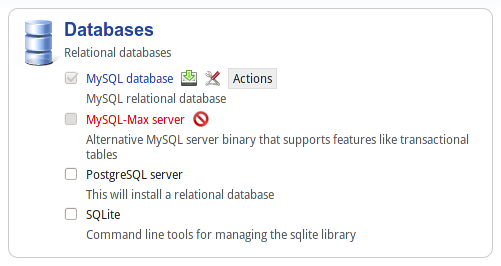
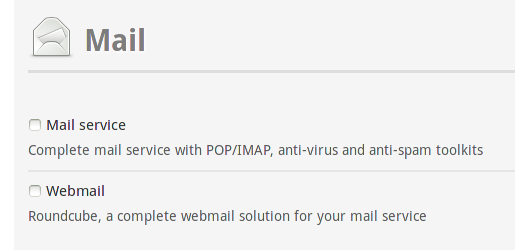
Update documentation

Changed region(s): [[0.0299, 0.42, 1.0, 0.924], [0.0599, 0.252, 1.0, 0.392], [0.0299, 0.056, 0.3593, 0.252]]

diff --git a/doc/source/layouts.rst b/doc/source/layouts.rst
@@ -1,16 +1,16 @@
 MSS layouts
-=================================
+===========
 
 To organize the modules in the web interface MSS uses a layout system to display
 the modules to the users.
 
-A layout is composed of one or more sections which contains one or more bundle. All
-sections are displayed on the front page. A bundle contains one or more modules.
+A layout is composed of one or more sections which contains one or more bundle. 
+A bundle contains one or more modules.
 
 The layouts are python modules located in the :py:mod:`mss.www.layout` module.
 
 Layout example
----------------
+--------------
 
 Directory structure :
 
@@ -25,6 +25,10 @@ Directory structure :
 As the layout is a python module we need an ``__init__.py`` file. The configuration
 of the layout is done in the ``config.py`` file.
 
+The "Core Services" and "Other Services" sections are defined in the base
+layout (``layout/base/config.py``). The markertplace section is defined in the
+commercial layout (``layout/commercial/config.py``).
+
 Section
 ^^^^^^^
 
@@ -32,9 +36,6 @@ A section is defined by :
 
 * a unique id
 * a name
-* an icon
-* a description text
-* some presentation related stuff
 
 In the ``config.py`` file import the :py:class:`mss.www.config.Config` class to
 reference the section
@@ -46,24 +47,16 @@ reference the section
 
     config = ConfigManager()
 
-    # example of section defenition
-    my_section = {
+    # add the section to the layout config
+    config.add_section({
         'id' : 'my_section',
         'name' : _('My section'),
-        'icon' : 'my_section_icon.png',
-        'desc' : _('This is a new section !'),
-        'conf' : { 'class': 'block-1' },
-    }
-
-    # add the section to the layout config
-    config.add_section(my_section)
+    })
 
 The name and the description can be translated. We use the ``_`` shortcut for
 gettext translations.
 
-This will output something like this on the front page :
-
-.. image:: media/section_example.png
+All sections are listed at the left of the screen.
 
 Bundles
 ^^^^^^^
@@ -72,33 +65,24 @@ A bundle is defined by :
 
 * a unique id
 * a name
-* an icon
-* a description text
-* some presentation related stuff
+* an icon (optionnal)
 * a list of modules
 
 ::
 
-    my_bundle =
-        {
-            'id': 'mybundle',
-            'name': _('My Bundle'),
-            'icon': 'bundle_1.png',
-            'desc': _('Foo'),
-            'conf': {'class': 'block-1'},
-            'modules': ["module1", "module2", "module3"],
-        }
-
-    config.add_bundle("my_section", my_bundle)
+    config.add_bundle("core", {
+        'id': 'mail',
+        'name': _('Mail'),
+        'icon': 'base/mail.png',
+        'modules': ["mail", "webmail"]
+    })
 
 
 This will output something like this in the section page :
 
 .. image:: media/bundle_example.png
 
-In this example, the bundle is composed of 4 modules related to databases.
-The first module is already installed on the system and was configured by MSS.
-The second module conflicts with some module installed.
+In this example, the bundle is composed of 2 modules.
 
 Modules
 ^^^^^^^
@@ -113,71 +97,3 @@ A module is defined by :
 
 
 This method allows you to add a specific module in any bundle of any section.
-
-
-Presentation
-------------
-
-On the front page and the section pages the sections and bundles can be organized
-in a one or two column way.
-
-To display a block (section or bundle) in one column use the ``block-1`` class :
-
-::
-
-    'conf' : { 'class': 'block-1' },
-
-To have two columns, blocks must use the ``block-2`` class :
-
-::
-
-    'conf' : { 'class': 'block-2' },
-
-When using a 2 column layout the first block of each "row" must use the ``block-clear`` class :
-
-::
-
-        {
-            'id': '0',
-            'name': _('Bundle 0'),
-            'icon': 'bundle_0.png',
-            'desc': _('Foo'),
-            'conf': {'class': 'block-1'},
-            'modules': ["module1", "module2", "module3"],
-        },
-        {
-            'id': '1',
-            'name': _('Bundle 1'),
-            'icon': 'bundle_1.png',
-            'desc': _('Foo'),
-            'conf': {'class': 'block-clear block-2'},
-            'modules': ["module4"],
-        },
-        {
-            'id': '2',
-            'name': _('Bundle 2'),
-            'icon': 'bundle_2.png',
-            'desc': _('Foo'),
-            'conf': {'class': 'block-2'},
-            'modules': ["module5", "module6"],
-        },
-                {
-            'id': '3',
-            'name': _('Bundle 3'),
-            'icon': 'bundle_3.png',
-            'desc': _('Foo'),
-            'conf': {'class': 'block-clear block-2'},
-            'modules': ["module7", "module8", "module9"],
-        },
-        {
-            'id': '4',
-            'name': _('Bundle 4'),
-            'icon': 'bundle_4.png',
-            'desc': _('Foo'),
-            'conf': {'class': 'block-clear block-2'},
-            'modules': ["module10", "module11"],
-        },
-
-This configuration will render something like that :
-
-.. image:: media/layout_sketch.png

diff --git a/doc/source/module_description.rst b/doc/source/module_description.rst
@@ -31,6 +31,19 @@ same name as the module name
     <name>My module</name>
     <desc>A great module</desc>
 
+Actions
+^^^^^^^
+
+Action menu to display when the module has been configured. Currently only
+html links are supported.
+
+::
+
+ <actions>
+     <action type="link" name="Management interface" value="http://@HOSTNAME@/mmc/" />
+     <action type="link" name="Webmail" value="http://@HOSTNAME@/roundcubemail/" />
+ </actions>
+
 Medias
 ^^^^^^
 
@@ -41,12 +54,13 @@ MSS allows you to add medias on the system to install packages.
 * @auth (optional) : None (default) | my
 * @proto : http (default) | https
 * @mode (optional) : None (default) | distrib | updates
+* @can_skip (optional) : Node (default) | yes
 
 @ARCH@ will be replaced by the machine arch (x86_64 or i586).
 
 ::
 
-    <medias verbose_name="My module" name="module" auth="my" proto="https">
+    <medias verbose_name="MES5 repositories" name="mes5" auth="my" proto="https">
         <url>download.mandriva.com/EnterpriseServer5/rpms/@ARCH@/</url>
     </medias>
 
@@ -298,10 +312,11 @@ Configuration definition in ``desc.xml`` :
     :language: py
 
 The setup script and templates
--------------------------------------------------
+------------------------------
 
 To run modules configuration the MSS agent runs shell scripts as root in the
-background. The script name and its parameters launch by MSS have to be declared in the :py:func:`get_config_info` function.
+background. The script name and its parameters launch by MSS have to be declared 
+in the :py:func:`get_config_info` function.
 
 ``mds_webmail`` script example :
 

diff --git a/doc/source/module_desc_example.rst b/doc/source/module_desc_example.rst
@@ -7,8 +7,8 @@ Module ``desc.xml`` examples
 .. literalinclude:: ../../mss/agent/modules/mds_mmc/desc.xml
     :language: xml
     
-``groupoffice`` module
+``zarafa`` module
 ----------------------
 
-.. literalinclude:: ../../mss/agent/modules/groupoffice/desc.xml
+.. literalinclude:: ../../mss/agent/modules/zarafa/desc.xml
     :language: xml
